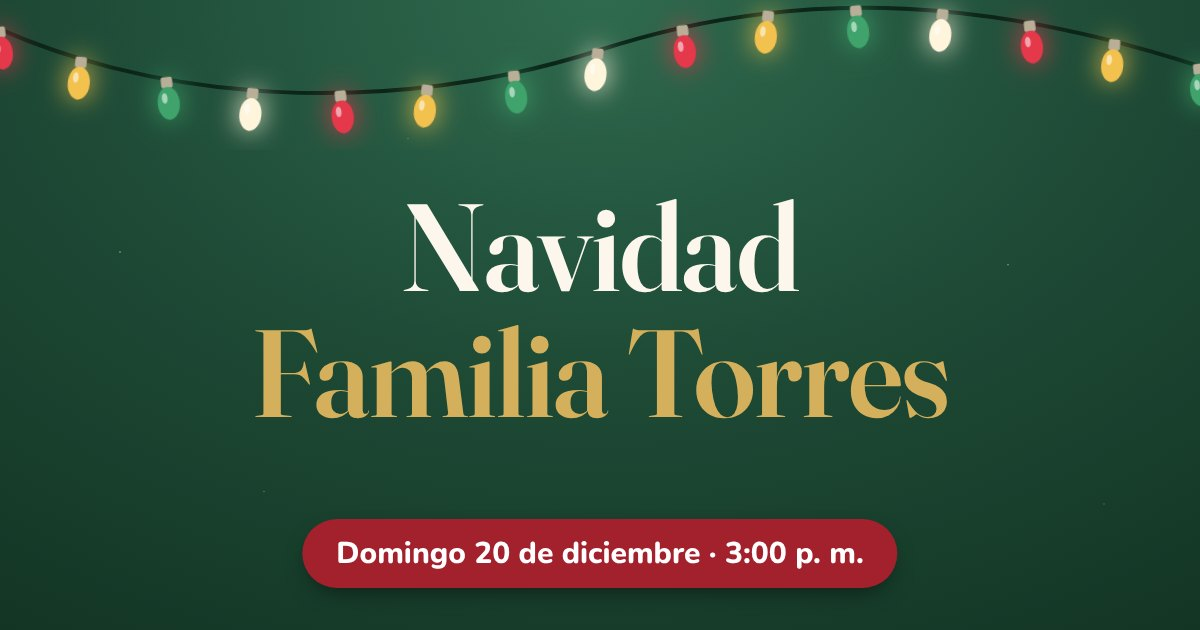
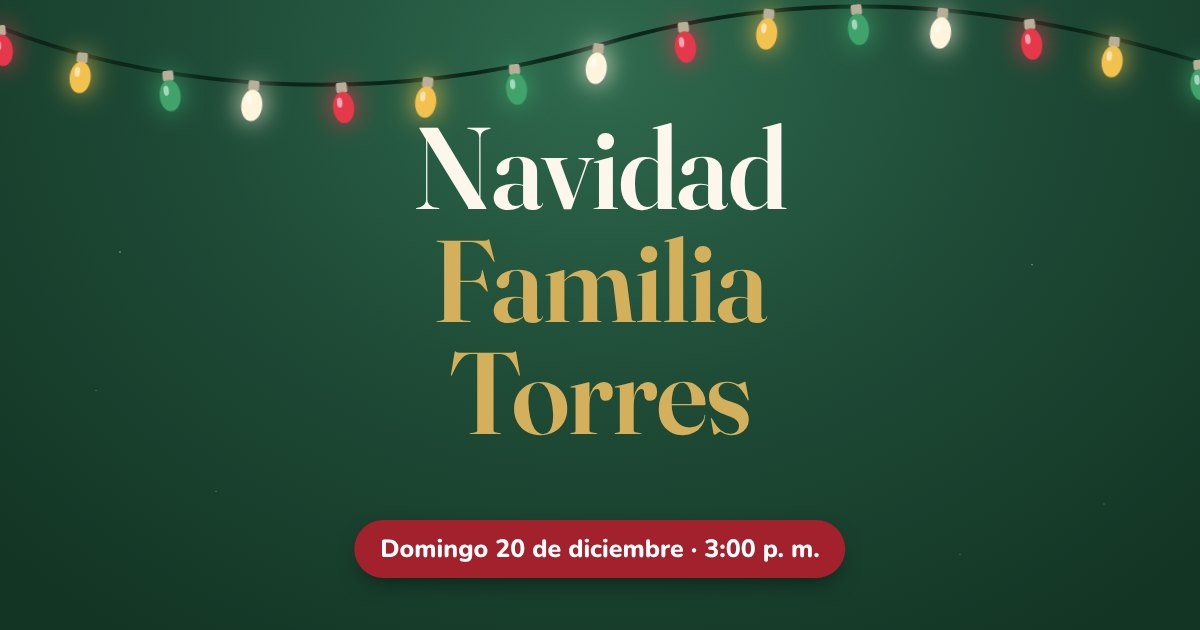
fix preview image

diff --git a/site/index.html b/site/index.html
@@ -14,7 +14,7 @@
     <meta property="og:title" content="Navidad Familia Torres 🎄 ¡Te invitamos!">
     <meta property="og:description" content="Domingo 20 de diciembre · 3:00 p. m. · El Agustino. Abre tu invitación y confirma tu asistencia.">
     <meta property="og:url" content="__SITE_URL__/">
-    <meta property="og:image" content="__SITE_URL__/preview.jpg">
+    <meta property="og:image" content="__SITE_URL__/preview.jpg?v=2">
     <meta property="og:image:type" content="image/jpeg">
     <meta property="og:image:width" content="1200">
     <meta property="og:image:height" content="630">
